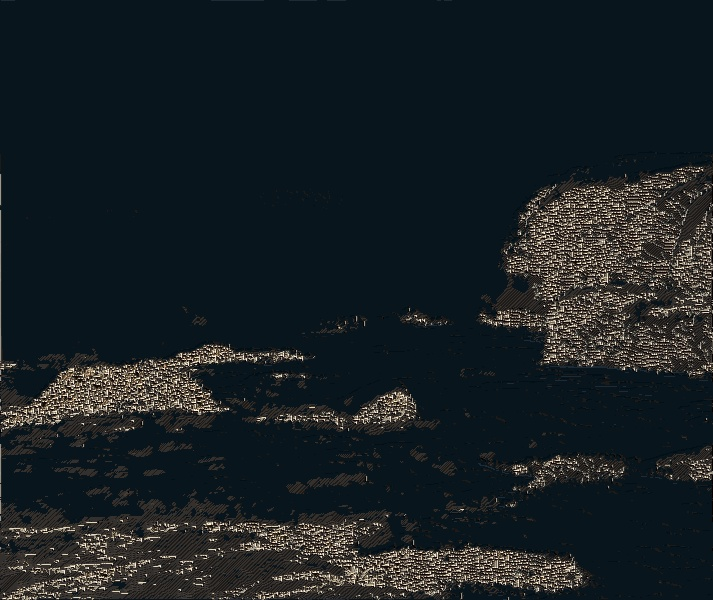
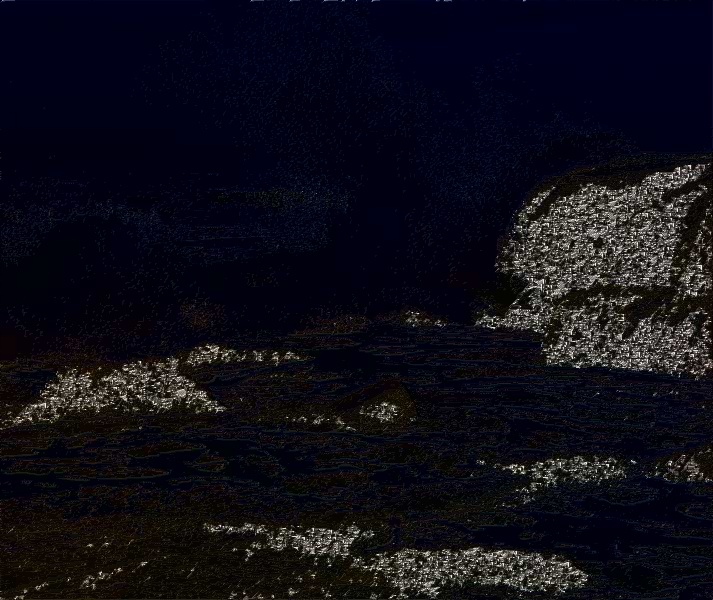
Updated to copy iq from B

diff --git a/analogies.py b/analogies.py
@@ -46,7 +46,10 @@ class Analogies:
                 x,y = self.LinearToXY(index,self.ashape)
                 if x>=self.ashape[0] or y>=self.ashape[1]:
                     print "xy out of bounds",x,y,index
-                self.B1[i,j] = self.A1[x,y]
+                a1y,a1i,a1q = featureVector.getPixelAsYIQ(self.A1,x,y)
+                by,bi,bq = featureVector.getPixelAsYIQ(self.B,i,j)
+                featureVector.setPixelFromYIQ([a1y,bi,bq],self.B1,i,j)
+                # self.B1[i,j] = self.A1[x,y]
 
         # for idx,elem in enumerate(self.B):
         #     if idx%100000 == 0:
